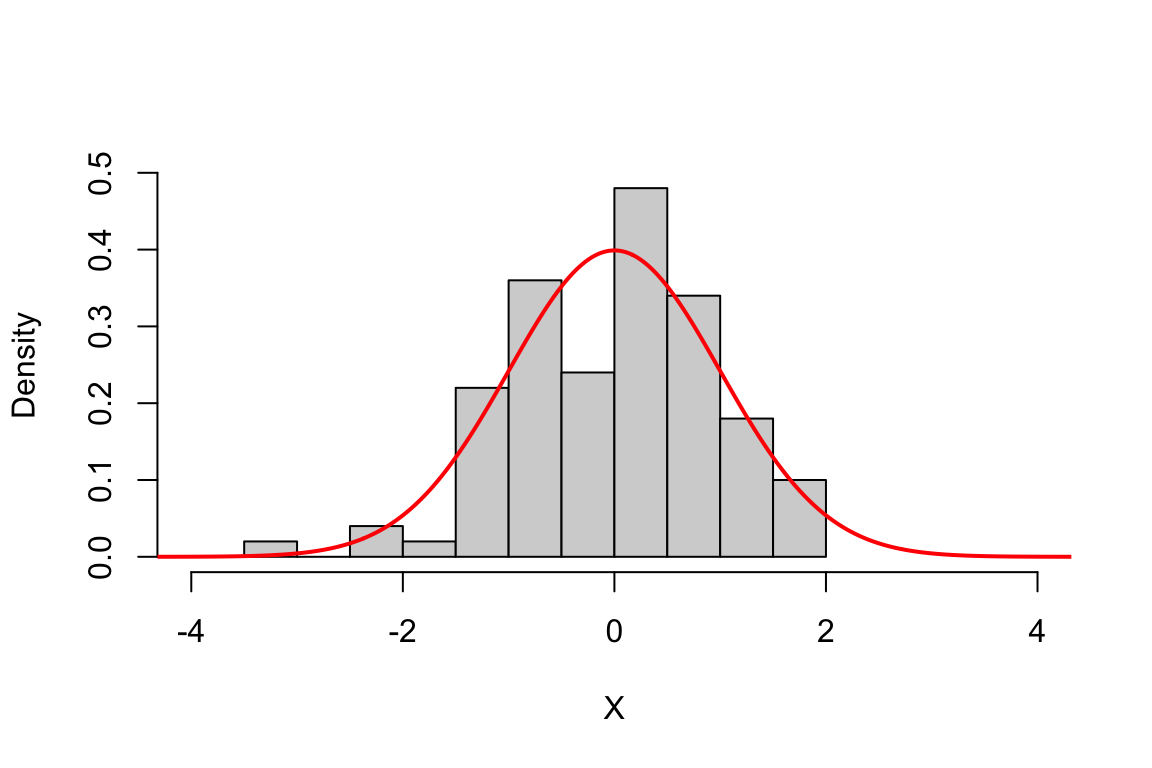
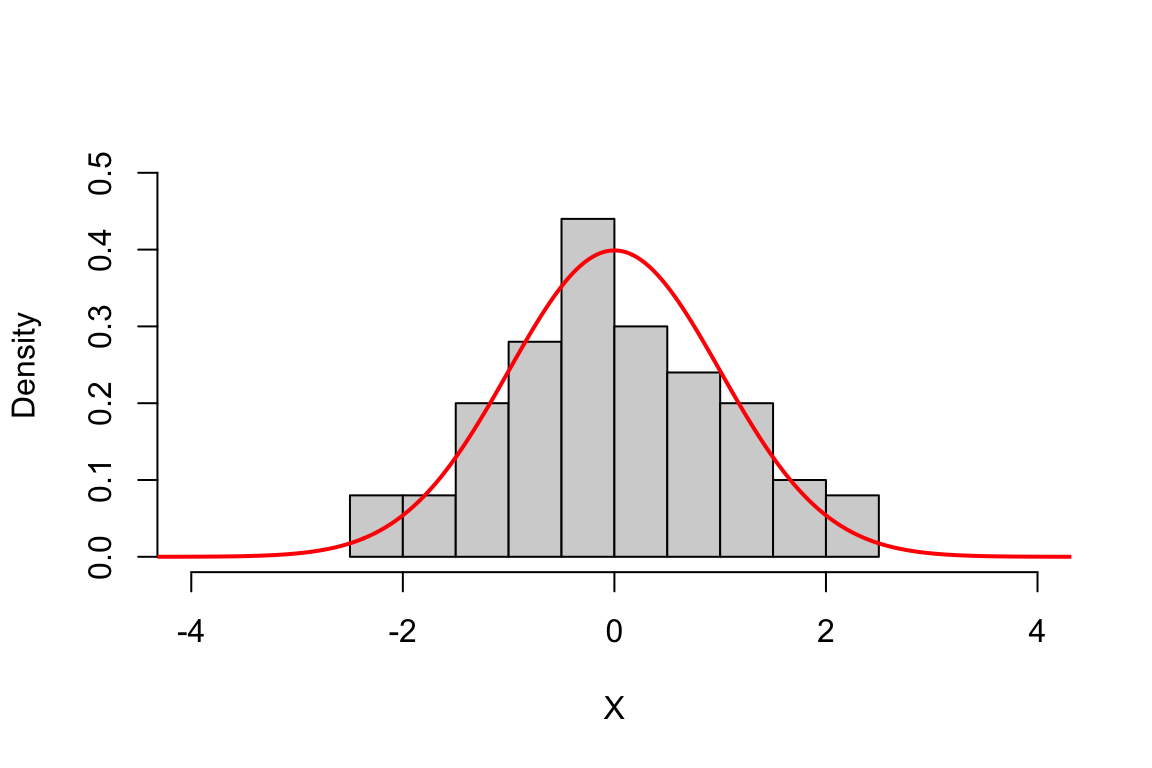
fixed dates in the schedule

diff --git a/docs/Stats_review.html b/docs/Stats_review.html
@@ -355,7 +355,7 @@ window.Quarto = {
 <li>discrete (numbers of items or successes)</li>
 <li>continuous (heights, times, weights)</li>
 </ul>
-<p>We usually use capital letters – e.g.&nbsp;<span class="math inline">X</span>, <span class="math inline">Y</span>, sometimes with bold or with subscripts – to denote the RVs. In contrast we use lower case letters, e.g.&nbsp;<span class="math inline">x</span>, <span class="math inline">y</span>, <span class="math inline">k</span>, to denote the values that the RV takes. For instance, lets say that the heights of the woman at Virginia Tech are the RV, <span class="math inline">X</span>, and <span class="math inline">X</span> has a normal distribution with mean 62 inches and variance 6<span class="math inline">^2</span>, i.e., <span class="math inline">X \sim \mathrm{N}(62,6^2)</span> distribution. Say we then observe the heights of 3 individuals drawn from this distribution – we would write this as: <span class="math inline">x=(</span> 57.9, 57.8, 50.5 <span class="math inline">)</span>.</p>
+<p>We usually use capital letters – e.g.&nbsp;<span class="math inline">X</span>, <span class="math inline">Y</span>, sometimes with bold or with subscripts – to denote the RVs. In contrast we use lower case letters, e.g.&nbsp;<span class="math inline">x</span>, <span class="math inline">y</span>, <span class="math inline">k</span>, to denote the values that the RV takes. For instance, lets say that the heights of the woman at Virginia Tech are the RV, <span class="math inline">X</span>, and <span class="math inline">X</span> has a normal distribution with mean 62 inches and variance 6<span class="math inline">^2</span>, i.e., <span class="math inline">X \sim \mathrm{N}(62,6^2)</span> distribution. Say we then observe the heights of 3 individuals drawn from this distribution – we would write this as: <span class="math inline">x=(</span> 63.2, 52.6, 68.5 <span class="math inline">)</span>.</p>
 <p><br> <br> </p>
 </section>
 <section id="probability-distributions" class="level1">
@@ -579,7 +579,7 @@ f(x)=\frac{1}{\sqrt{2\pi\sigma^2}}\exp{\left(-\frac{(x-\mu)^2}{2\sigma^2}\right)
 <div class="cell">
 <div class="sourceCode cell-code" id="cb3"><pre class="sourceCode r code-with-copy"><code class="sourceCode r"><span id="cb3-1"><a href="#cb3-1" aria-hidden="true" tabindex="-1"></a><span class="fu">rnorm</span>(<span class="dv">3</span>, <span class="at">mean=</span><span class="dv">0</span>, <span class="at">sd=</span><span class="dv">1</span>) <span class="do">## random draws</span></span></code><button title="Copy to Clipboard" class="code-copy-button"><i class="bi"></i></button></pre></div>
 <div class="cell-output cell-output-stdout">
-<pre><code>[1] -0.3931749  0.2459087  0.1481595</code></pre>
+<pre><code>[1] -1.3498829  2.0394514 -0.2762116</code></pre>
 </div>
 </div>
 <div class="cell">

diff --git a/docs/schedule2025.html b/docs/schedule2025.html
@@ -134,8 +134,8 @@ ul.task-list li input[type="checkbox"] {
   <ul>
   <li><a href="#pre-workshop" id="toc-pre-workshop" class="nav-link active" data-scroll-target="#pre-workshop">Pre-workshop</a></li>
   <li><a href="#june-2025" id="toc-june-2025" class="nav-link" data-scroll-target="#june-2025">13 June 2025</a></li>
-  <li><a href="#july-2025-0830---1730" id="toc-july-2025-0830---1730" class="nav-link" data-scroll-target="#july-2025-0830---1730">14 July 2025 (08:30 - 17:30)</a></li>
-  <li><a href="#june-2025-0830---1730" id="toc-june-2025-0830---1730" class="nav-link" data-scroll-target="#june-2025-0830---1730">15 June 2025 (08:30 - 17:30)</a></li>
+  <li><a href="#june-2025-0830---1730" id="toc-june-2025-0830---1730" class="nav-link" data-scroll-target="#june-2025-0830---1730">14 June 2025 (08:30 - 17:30)</a></li>
+  <li><a href="#june-2025-0830---1730-1" id="toc-june-2025-0830---1730-1" class="nav-link" data-scroll-target="#june-2025-0830---1730-1">15 June 2025 (08:30 - 17:30)</a></li>
   <li><a href="#june-2025-0830---1145" id="toc-june-2025-0830---1145" class="nav-link" data-scroll-target="#june-2025-0830---1145">16 June 2025 (08:30 - 11:45)</a></li>
   <li><a href="#post-workshop" id="toc-post-workshop" class="nav-link" data-scroll-target="#post-workshop">Post-workshop</a></li>
   </ul>
@@ -196,8 +196,8 @@ ul.task-list li input[type="checkbox"] {
 </table>
 <p><br> <br> <br></p>
 </section>
-<section id="july-2025-0830---1730" class="level1">
-<h1>14 July 2025 (08:30 - 17:30)</h1>
+<section id="june-2025-0830---1730" class="level1">
+<h1>14 June 2025 (08:30 - 17:30)</h1>
 <table class="caption-top table">
 <colgroup>
 <col style="width: 27%">
@@ -271,7 +271,7 @@ ul.task-list li input[type="checkbox"] {
 </table>
 <p><br> <br> <br></p>
 </section>
-<section id="june-2025-0830---1730" class="level1">
+<section id="june-2025-0830---1730-1" class="level1">
 <h1>15 June 2025 (08:30 - 17:30)</h1>
 <table class="caption-top table">
 <colgroup>
